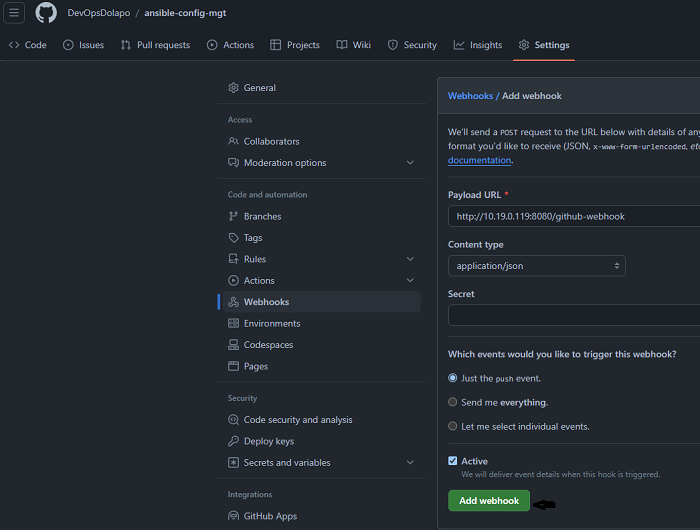
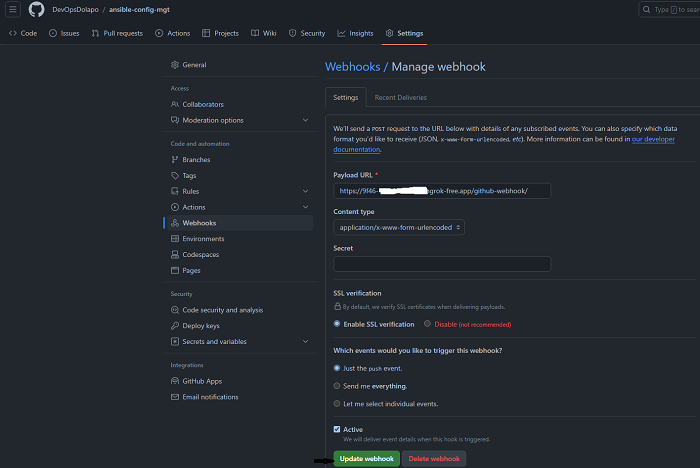
Updated project documentation and images

diff --git a/PROJECT 11/Project11.md b/PROJECT 11/Project11.md
@@ -33,7 +33,7 @@ Our architecture will be running on the following infrastructure components:
 
 8. **Visual Studio Code**: For preparing our development environment
 
-### Installing and Configuring a Jenkins/Ansible Server
+### Install and Configure a Jenkins/Ansible Server
 
 With our Jenkins/Ansible server (JAN001) already installed and running Ubuntu 20.04, we can go ahead to install Jenkins on the server as follows:
 
@@ -183,9 +183,11 @@ This job archives the repository content every time a change is made to it.
 
     - Under `Payload URL` option, add the `<jenkins_url:8080/github-webhook`. Set `Content type` to `application/json`, and click on `Add webhook` at the bottom of the page.
 
-    *Note: Ensure that the Jenkins Server is reachable from the internet, otherwise it won't be reachable from GitHub, which is a public service, and the attempt to add a webhook will fail. Thus open up `Port 80` on the Jenkins/Ansible Server by running the command `sudo ufw allow 80`*
+    *Note: Due to the fact that my setup was on VirtualBox and behind my router firewall, numerous attempts to configure a Webhook from GitHub to Jenkins failed. I had to install a software called `ngrok` on the Jenkins/Ansible Server, which generated a Public IP that GitHub could reach. Also, I had to employ a new set of IPs to work with the current configuration. My Jenkins/Ansible Server is now running on `192.168.0.2:8080`*
 
     ![Alt text](Images/jen-server32.png)
+
+    ![Alt text](Images/jen-server32-1.png)
 
     - Configure a post-build job to archive all artifacts by clicking on `Archive the artifacts` under the `Post-build actions` section. Enter `**` in the field then `Apply` and `Save`
 
@@ -197,7 +199,352 @@ This job archives the repository content every time a change is made to it.
 
     ![Alt text](Images/jen-server35.png)
 
-    - Test the setup by making some changes in the `README.md` file in the `main` branch on GitHub and ensure that the build starts automatically in Jenkins and the file is saved in the `` folder
+    - Test the setup by making some changes in the `README.md` file in the `main` branch on GitHub and ensure that the build starts automatically in Jenkins and the file is saved in the `/var/lib/jenkins/jobs/ansible/builds/<build_number>/archive/` directory on `JAN001`
+
+    ![Alt text](Images/jen-server36.png)
+
+    ![Alt text](Images/jen-server35-1.png)
+
+    ![Alt text](Images/jen-server37.png)
+
+    ![Alt text](Images/jen-server38.png)
+
+### Prepare a Development Environment using Visual Studio Code
+
+Visual Studio Code is an integrated development environment (IDE) or Source Code Editor for writing and debugging code. To prepare our development environment using VS Code, we need to first install VS Code, then follow these steps:
+
+**Step 1: Install `Remote Development` extension in VS Code**
+
+- In VS Code, go to `Extensions` and search for `Remote Development`, then install it
+
+![Alt text](Images/jen-server40.png)
+
+### Carry Out Ansible Development
+
+To begin Ansible development, go through the following steps:
+
+**Step 1: Clone the `ansible-config-mgt` repository from GitHub to VS Code**
+
+- Click on `Clone Repository` in VS Code. Then click on the `Clone from GitHub` drop down that shows up just under the search box at the top of VS Code
+
+![Alt text](Images/jen-server41.png)
+
+- Choose the repository you want to clone from the list
+
+![Alt text](Images/jen-server42.png)
+
+- Choose the repository location from the pop-up box
+
+![Alt text](Images/jen-server43.png)
+
+- The repository is cloned, and the system asks if you want to open it. Click Open
+
+![Alt text](Images/jen-server44.png)
+
+![Alt text](Images/jen-server45.png)
+
+**Step 2: Create a new branch that would be used to develop new features**
+
+- Go to the terminal on VS Code, and run the `git branch` command to confirm the current branch.
+
+![Alt text](Images/jen-server46.png)
+
+- Run `git status` to check the status of the current branch
+
+![Alt text](Images/jen-server47.png)
+
+- Run `git checkout -b <new branch name>` to create a new branch
+
+![Alt text](Images/jen-server48.png)
+
+**Step 3: Create a directory `playbooks` in the new branch by running the `mkdir playbooks` command. The directory will be used to store the playbook files**
+
+![Alt text](Images/jen-server49.png)
+
+**Step 4: Create a directory `inventory` to organise the hosts, by running the `mkdir inventory` command**
+
+![Alt text](Images/jen-server51.png)
+
+![Alt text](Images/jen-server50.png)
+
+![Alt text](Images/jen-server52.png)
+
+**Step 5: Create a playbook named `common.yml` inside the `playbooks` folder**
+
+![Alt text](Images/jen-server53.png)
+
+**Step 6: Create an inventory file for each environment (Development, Staging, Testing, and Production) named `dev`, `staging`, `uat`, and `prod`**
+
+![Alt text](Images/jen-server54.png)
+
+### Set Up an Ansible Inventory
+
+An inventory is where we define the hosts and group of hosts where our playbook will be implementing its commands, tasks, and modules. By default, Ansible uses TCP port 22 so it has to `ssh` into our target servers from the `Jenkins/Ansible Server - JAN001`. For this to work, we'll need to implement the `ssh-agent` concept.
+
+**Step 1: Generate the ssh keypair by running the command `ssh-keygen` on `JAN001`**
+
+![Alt text](Images/jen-server55.png)
+
+**Step 2: Run the following block of code to setup `ssh-agent`**
+
+```
+eval `ssh-agent -s`
+ssh-add <path-to-private-key>
+```
+![Alt text](Images/jen-server56.png)
+
+- Confirm the key has been added by running the command `ssh-add -l`
+
+![Alt text](Images/jen-server57.png)
+
+**Step 3: Transfer the public key from `JAN001` to all the other servers in the setup using the `ssh-copy-id` command. This configures `passwordless ssh` from the `Jenkins/Ansible Server` to all the other servers** 
+
+- **For the LoadBalancer:**
+
+![Alt text](Images/jen-server58.png)
+
+- Confirm that the key has been added
+
+![Alt text](Images/jen-server58-1.png)
+
+- **For the Database Server:**
+
+![Alt text](Images/jen-server60.png)
+
+![Alt text](Images/jen-server60-1.png)
+
+- **For the NFS Server:**
+
+![Alt text](Images/jen-server59.png)
+
+![Alt text](Images/jen-server59-1.png)
+
+- **For WebServer001:**
+
+![Alt text](Images/jen-server61.png)
+
+![Alt text](Images/jen-server61-1.png)
+
+- **For WebServer002:**
+
+![Alt text](Images/jen-server62.png)
+
+![Alt text](Images/jen-server62-1.png)
+
+**Step 4: Connect the `Jenkins/Ansible Server - JAN001` to VS Code**
+
+- Open the `Ansible-Config-Mgt` project on VS Code and navigate through `File > Open file` to the `ssh config` file at `C:/Users/Pumping!!!/.ssh/config`. This will open the config file in VS Code
+
+![Alt text](Images/jen-server63.png)
+
+- Fill in the necessary details in the config file
+```
+Host #Any generic name
+HostName #IP Address of the server we're trying to connect to
+User #Username of the server account
+ForwardAgent
+```
+- Save and click on the `Open a Remote Window` button at the bottom of the page
+
+![Alt text](Images/jen-server64.png)
+
+- From the pop-up, click on `Connect to host` and choose the name of the host you entered in the config file
+
+![Alt text](Images/jen-server65.png)
+
+- Choose the platform (OS) of the host you're trying to connect to
+
+![Alt text](Images/jen-server66.png)
+
+- Enter the user password and the system will connect
+
+![Alt text](Images/jen-server67.png)
+
+- Test if we can connect to one of the servers through `passwordless ssh`
+
+![Alt text](Images/jen-server68.png)
+
+**Step 5: Update the `inventory/dev.yml` file**
+
+- Edit the `dev.yml` file with the block of code below ensuring that the correct details are filled in
+
+```
+[nfs]
+<NFS-Server-Private-IP-Address> ansible_ssh_user=ec2-user
+
+[webservers]
+<Web-Server1-Private-IP-Address> ansible_ssh_user=ec2-user
+<Web-Server2-Private-IP-Address> ansible_ssh_user=ec2-user
+
+[db]
+<Database-Private-IP-Address> ansible_ssh_user=ec2-user 
+
+[lb]
+<Load-Balancer-Private-IP-Address> ansible_ssh_user=ubuntu
+```
+![Alt text](Images/jen-server69.png)
+
+### Create a Common Playbook
+
+We need to create a common playbook to give ansible instructions on the operations we want to perform on the servers in `dev.yml`. The multi-machine tasks in our playbook are common to systems within the infrastructure.
+
+- Update the `playbooks/common.yml` file with the follow block of code
+
+```
+---
+- name: update web, nfs and db servers
+  hosts: webservers, nfs, db
+  become: yes
+  tasks:
+    - name: ensure wireshark is at the latest version
+      yum:
+        name: wireshark
+        state: latest
+   
+
+- name: update LB server
+  hosts: lb
+  become: yes
+  tasks:
+    - name: Update apt repo
+      apt: 
+        update_cache: yes
+
+    - name: ensure wireshark is at the latest version
+      apt:
+        name: wireshark
+        state: latest
+
+```
+![Alt text](Images/jen-server70.png)
+
+### Update GIT with the Latest Code
+
+We need to push the recent changes we made locally to our `ansible-config-mgt` repository to GitHub
+
+- Using the block of code below use git commands to add, commit, and push the branch to GitHub
+
+```
+git status
+
+git add <selected files>
+
+git commit -m "commit message"
+```
+![Alt text](Images/jen-server71.png)
+
+- Create a Pull request for `prj-11-automate` on GitHub
+
+    - Go to the `ansible-config-mgt` repository on GitHub, then click on the button that says `Compare & pull request`
+
+    ![Alt text](Images/jen-server72.png)
+
+    - On the `Open a pull request` page, click on `Create a pull request` at the bottom of the page
+
+    ![Alt text](Images/jen-server73.png)
+
+    - Click on `Merge pull request` on the next page
+
+    ![Alt text](Images/jen-server74.png)
+
+    - Click on `Confirm merge`
+
+    ![Alt text](Images/jen-server75.png)
+
+    - We should get a notification saying our Pull request is successful
+
+    ![Alt text](Images/jen-server76.png)
+
+    - Checking on Jenkins to see if the changes made to our repository on VS Code is reflecting
+
+    ![Alt text](Images/jen-server77.png)
+
+    ![Alt text](Images/jen-server78.png)
+
+    - Further changes made to our files in the `ansible-config-mgt` repository on VS Code also reflect on Jenkins 
+
+    ![Alt text](Images/jen-server79.png)
+
+    ![Alt text](Images/jen-server80.png)
+
+    ![Alt text](Images/jen-server81.png)
+
+- Confirm if Jenkins has saved all the files (build artifacts) to the `/var/lib/jenkins/jobs/ansible/builds/<build_number>/archive/` directory on `JAN001`. We'll check in `Build 13` as shown in the last build on Jenkins web.
+
+![Alt text](Images/jen-server82.png)
+
+- Checkout from the current branch into the main branch and pull down all the changes into the main branch
+
+![Alt text](Images/jen-server83.png)
+
+### Run Ansible Tests
+
+Now we can run our first Ansible test by executing the `ansible-playbook` command to confirm that the playbook actually works. 
+
+- Clone the `ansible-config-mgt` repository from GitHub to JAN001 by running the command `git clone <ansible-config-mgt repo link>`
+
+![Alt text](Images/jen-server39.png)
+
+- Reconnect the `Jenkins/Ansible Server - JAN001` to VS Code
+
+- Change Directory to `ansible-config-mgt`
+
+![Alt text](Images/jen-server84.png)
+
+- Run the playbook using the command `ansible-playbook -i inventory/dev.yml playbooks/common.yml`
+
+![Alt text](Images/jen-server85.png)
+
+- Confirm that `wireshark` has been installed on the target servers
+
+![Alt text](Images/jen-server86.png)
+
+![Alt text](Images/jen-server87.png)
+
+![Alt text](Images/jen-server88.png)
+
+![Alt text](Images/jen-server89.png)
+
+![Alt text](Images/jen-server90.png)
+
+
+
+
+
+
+
+    
+
+
+
+
+
+
+
+
+
+
+
+
+
+
+
+
+
+
+
+
+
+
+
+
+
+
+
+
+
+
+
 
     
 
